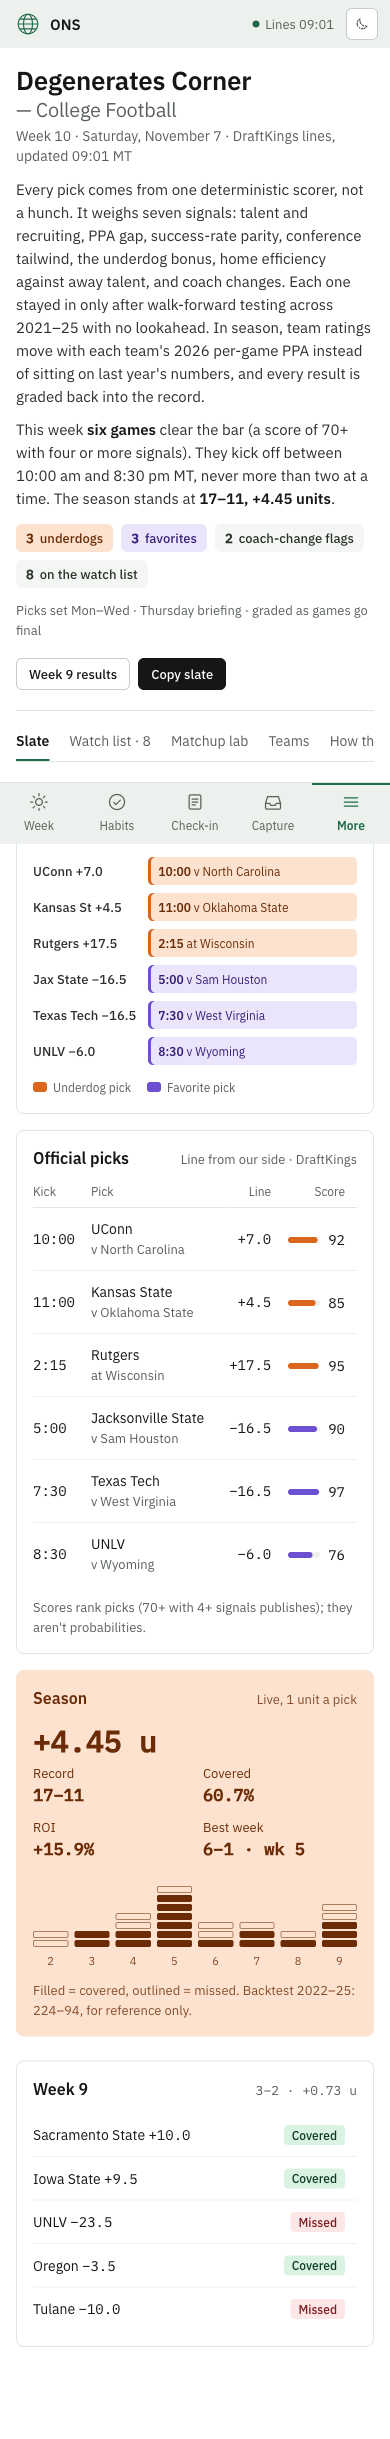
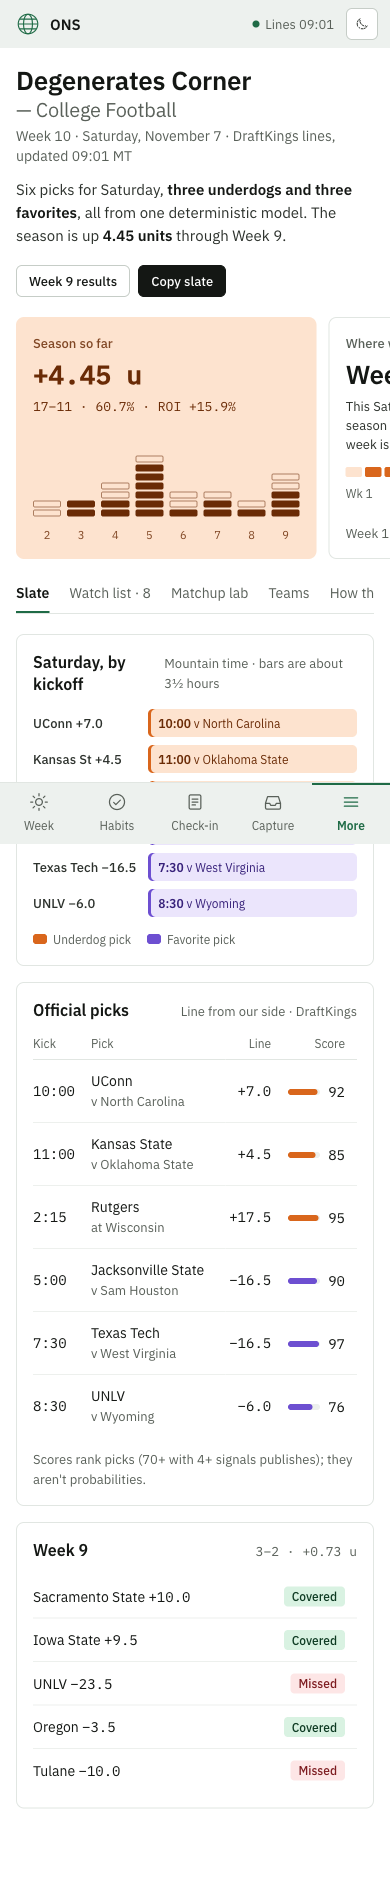
Degenerates Corner: summary tiles for season, calendar, weekly run and model
Replaces the long intro paragraphs with a one-line lede and four tiles:
season so far (units, record, per-week chart), where we are in the season,
this week's pipeline checklist, and the model. Season card folded into the
first tile; tiles swipe sideways on phones.

diff --git a/docs/design/directions/6-logbook-color/cfb.html b/docs/design/directions/6-logbook-color/cfb.html
@@ -55,22 +55,48 @@
   </nav>
 
   <main class="sheet">
-    <header class="intro">
+    <header class="intro compact">
       <div>
         <h1>Degenerates Corner <span class="h1-sub">— College Football</span></h1>
         <p class="span">Week 10 · Saturday, November 7 · DraftKings lines, updated 09:01 MT</p>
-        <p class="lede">Every pick comes from one deterministic scorer, not a hunch. It weighs seven signals: talent and recruiting, PPA gap, success-rate parity, conference tailwind, the underdog bonus, home efficiency against away talent, and coach changes. Each one stayed in only after walk-forward testing across 2021–25 with no lookahead. In season, team ratings move with each team's 2026 per-game PPA instead of sitting on last year's numbers, and every result is graded back into the record.</p>
-        <p class="lede">This week <b>six games</b> clear the bar (a score of 70+ with four or more signals). They kick off between 10:00 am and 8:30 pm MT, never more than two at a time. The season stands at <b>17–11, +4.45 units</b>.</p>
-        <ul class="facts" aria-label="This week at a glance">
-          <li class="dog"><span class="n">3</span> underdogs</li>
-          <li class="fav"><span class="n">3</span> favorites</li>
-          <li><span class="n">2</span> coach-change flags</li>
-          <li><span class="n">8</span> on the watch list</li>
-        </ul>
-        <p class="cadence">Picks set Mon–Wed · Thursday briefing · graded as games go final</p>
+        <p class="lede">Six picks for Saturday, <b>three underdogs and three favorites</b>, all from one deterministic model. The season is up <b>4.45 units</b> through Week 9.</p>
       </div>
       <div class="acts"><a class="btn" href="#">Week 9 results</a><a class="btn pri" href="#">Copy slate</a></div>
     </header>
+
+    <div class="tiles">
+      <section class="tile t t-edge" aria-labelledby="t-season">
+        <h2 id="t-season">Season so far</h2>
+        <div class="tbig n">+4.45 u</div>
+        <p class="n">17–11 · 60.7% · ROI +15.9%</p>
+        <div class="wk" role="img" aria-label="Covered and missed picks by week, weeks 2 to 9"><div><i class="l"></i><i class="l"></i></div><div><i class="w"></i><i class="w"></i></div><div><i class="w"></i><i class="w"></i><i class="l"></i><i class="l"></i></div><div><i class="w"></i><i class="w"></i><i class="w"></i><i class="w"></i><i class="w"></i><i class="w"></i><i class="l"></i></div><div><i class="w"></i><i class="l"></i><i class="l"></i></div><div><i class="w"></i><i class="w"></i><i class="l"></i></div><div><i class="w"></i><i class="l"></i></div><div><i class="w"></i><i class="w"></i><i class="w"></i><i class="l"></i><i class="l"></i></div></div>
+        <div class="wkx" aria-hidden="true"><span>2</span><span>3</span><span>4</span><span>5</span><span>6</span><span>7</span><span>8</span><span>9</span></div>
+      </section>
+
+      <section class="tile" aria-labelledby="t-cal">
+        <h2 id="t-cal">Where we are</h2>
+        <div class="tbig">Week 10</div>
+        <p>This Saturday, then three more regular-season weeks through Nov 28. Championship week is Dec 5.</p>
+        <div class="seasonbar" role="img" aria-label="Week 10 of 14"><i class="none" title="Week 1"></i><i class="done" title="Week 2"></i><i class="done" title="Week 3"></i><i class="done" title="Week 4"></i><i class="done" title="Week 5"></i><i class="done" title="Week 6"></i><i class="done" title="Week 7"></i><i class="done" title="Week 8"></i><i class="done" title="Week 9"></i><i class="now" title="Week 10"></i><i class="" title="Week 11"></i><i class="" title="Week 12"></i><i class="" title="Week 13"></i><i class="champ" title="Week 14"></i></div>
+        <div class="seasonx" aria-hidden="true"><span>Wk 1</span><span>Champs</span></div>
+        <p class="tnote">Week 1 had no picks · 8 weeks graded</p>
+      </section>
+
+      <section class="tile wide" aria-labelledby="t-pipe">
+        <h2 id="t-pipe">This week's run</h2>
+        <div class="tbig">3 of 6 done</div>
+        <ol class="steps"><li class="ok"><svg viewBox="0 0 16 16" aria-hidden="true"><circle cx="8" cy="8" r="7"/><path d="M4.8 8.3l2.2 2.2 4.2-4.6"/></svg><b>Week 9 graded</b><span class="n">3–2 · +0.73 u</span></li><li class="ok"><svg viewBox="0 0 16 16" aria-hidden="true"><circle cx="8" cy="8" r="7"/><path d="M4.8 8.3l2.2 2.2 4.2-4.6"/></svg><b>Lines pulled</b><span class="n">Tue 09:01</span></li><li class="ok"><svg viewBox="0 0 16 16" aria-hidden="true"><circle cx="8" cy="8" r="7"/><path d="M4.8 8.3l2.2 2.2 4.2-4.6"/></svg><b>Picks set</b><span class="n">6 official · 8 watch</span></li><li class="todo"><svg viewBox="0 0 16 16" aria-hidden="true"><circle cx="8" cy="8" r="6.25"/></svg><b>Thursday briefing</b><span class="n">Nov 5</span></li><li class="todo"><svg viewBox="0 0 16 16" aria-hidden="true"><circle cx="8" cy="8" r="6.25"/></svg><b>Games</b><span class="n">Sat 10:00–8:30</span></li><li class="todo"><svg viewBox="0 0 16 16" aria-hidden="true"><circle cx="8" cy="8" r="6.25"/></svg><b>Graded</b><span class="n">as games go final</span></li></ol>
+      </section>
+
+      <section class="tile" aria-labelledby="t-model">
+        <h2 id="t-model">The model</h2>
+        <div class="tbig">7 signals</div>
+        <p>One deterministic scorer. Each signal is walk-forward tested on 2021–25 with no lookahead; 3 were cut in the July audit.</p>
+        <p>In season, team ratings follow 2026 per-game PPA. A pick needs a score of 70+ and 4+ signals.</p>
+        <a class="tlink" href="#">How the model works</a>
+      </section>
+    </div>
+
     <nav class="tabs" aria-label="CFB"><a href="cfb.html" aria-current="page">Slate</a><a href="#">Watch list · 8</a><a href="#">Matchup lab</a><a href="#">Teams</a><a href="#">How the model works</a></nav>
 
     <div class="grid">
@@ -105,14 +131,6 @@
       </section>
 
       <div class="s4 stack">
-      <section class="card t t-edge" aria-labelledby="season-h">
-        <div class="ch"><h2 id="season-h">Season</h2><span class="aside">Live, 1 unit a pick</span></div>
-        <div class="big">+4.45 u</div>
-        <div class="kv"><div>Record<b>17–11</b></div><div>Covered<b>60.7%</b></div><div>ROI<b>+15.9%</b></div><div>Best week<b>6–1 · wk 5</b></div></div>
-        <div class="wk" role="img" aria-label="Wins and losses by week, weeks 2 to 9"><div><i class="l"></i><i class="l"></i></div><div><i class="w"></i><i class="w"></i></div><div><i class="w"></i><i class="w"></i><i class="l"></i><i class="l"></i></div><div><i class="w"></i><i class="w"></i><i class="w"></i><i class="w"></i><i class="w"></i><i class="w"></i><i class="l"></i></div><div><i class="w"></i><i class="l"></i><i class="l"></i></div><div><i class="w"></i><i class="w"></i><i class="l"></i></div><div><i class="w"></i><i class="l"></i></div><div><i class="w"></i><i class="w"></i><i class="w"></i><i class="l"></i><i class="l"></i></div></div>
-        <div class="wkx" aria-hidden="true"><span>2</span><span>3</span><span>4</span><span>5</span><span>6</span><span>7</span><span>8</span><span>9</span></div>
-        <p class="note">Filled = covered, outlined = missed. Backtest 2022–25: 224–94, for reference only.</p>
-      </section>
       <section class="card" aria-labelledby="w9-h">
         <div class="ch"><h2 id="w9-h">Week 9</h2><span class="aside n">3–2 · +0.73 u</span></div>
         <table><tbody>

diff --git a/docs/design/directions/6-logbook-color/style.css b/docs/design/directions/6-logbook-color/style.css
@@ -100,6 +100,38 @@ h1 { font: 600 22px/28px var(--sans); margin: 0; }
 .intro .lede b { color: var(--ink); font-weight: 600; }
 .intro .acts { display: flex; gap: 8px; flex: none; padding-top: 4px; }
 
+.intro.compact { border-bottom: 0; padding-bottom: 0; margin-bottom: 20px; }
+
+/* Summary tiles (CFB): season, calendar, this week's pipeline, the model */
+.tiles { display: grid; grid-template-columns: 1fr 1fr 1.25fr 1fr; gap: 16px; margin-bottom: 24px; }
+.tile { border: 1px solid var(--border); border-radius: 8px; padding: 16px; display: flex; flex-direction: column; gap: 6px; min-width: 0; background: var(--sheet); }
+.tile.t { border-color: transparent; background: var(--t); color: var(--t-ink); }
+.tile h2 { font: 500 13px/18px var(--sans); margin: 0; color: var(--muted); }
+.tile.t h2 { color: var(--t-ink); opacity: .85; }
+.tile .tbig { font: 600 26px/32px var(--sans); letter-spacing: -.01em; }
+.tile .tbig.n { font-family: var(--mono); letter-spacing: 0; }
+.tile p { margin: 0; font-size: 13px; line-height: 19px; color: var(--ink-2); }
+.tile.t p { color: var(--t-ink); }
+.tile .tnote { color: var(--muted); margin-top: auto; }
+.tile .wk { margin-top: auto; height: 60px; }
+.tlink { margin-top: auto; font-size: 13px; font-weight: 500; color: var(--hue); text-underline-offset: 3px; }
+.seasonbar { display: grid; grid-template-columns: repeat(14, 1fr); gap: 3px; margin-top: 8px; }
+.seasonbar i { height: 10px; border-radius: 2px; background: var(--rule); }
+.seasonbar i.done { background: var(--edge-mark); }
+.seasonbar i.none { background: var(--edge); }
+.seasonbar i.now { background: var(--sheet); outline: 2px solid var(--edge-mark); outline-offset: -2px; }
+.seasonbar i.champ { background: transparent; outline: 1px dashed var(--control); outline-offset: -1px; }
+.seasonx { display: flex; justify-content: space-between; font-size: 12px; color: var(--muted); }
+.steps { list-style: none; margin: 4px 0 0; padding: 0; display: grid; gap: 6px; }
+.steps li { display: grid; grid-template-columns: 16px auto 1fr; align-items: center; gap: 8px; font-size: 13px; line-height: 18px; }
+.steps li span { text-align: right; color: var(--muted); font-size: 12px; white-space: nowrap; }
+.steps svg { width: 16px; height: 16px; fill: none; stroke-width: 1.5; stroke-linecap: round; stroke-linejoin: round; }
+.steps li.ok svg circle { fill: var(--ok); stroke: var(--ok-ink); }
+.steps li.ok svg path { stroke: var(--ok-ink); }
+.steps li.ok b { font-weight: 500; }
+.steps li.todo svg circle { stroke: var(--control); stroke-dasharray: 2.5 2; }
+.steps li.todo b { font-weight: 400; color: var(--muted); }
+
 /* Next steps: up to four things to do today, each in its area's colour */
 .next { display: grid; grid-template-columns: repeat(4, minmax(0, 1fr)); gap: 12px; margin: 16px 0 0; padding: 0; list-style: none; }
 .next li { display: flex; flex-direction: column; gap: 2px; padding: 12px 14px; border-radius: 8px; background: var(--l); color: var(--l-ink); box-shadow: inset 3px 0 0 var(--l-mark); }
@@ -241,6 +273,9 @@ td .sub { display: block; font-size: 13px; color: var(--muted); }
   .intro h1 .h1-sub { display: block; font-size: 20px; line-height: 26px; }
   .intro .lede { font-size: 15px; line-height: 23px; }
   .next { grid-template-columns: minmax(0, 1fr); gap: 8px; }
+  /* Phone: tiles become one swipeable row so the slate stays near the top */
+  .tiles { display: flex; gap: 12px; overflow-x: auto; scroll-snap-type: x mandatory; margin: 0 -16px 20px; padding: 0 16px 4px; scroll-padding: 0 16px; scrollbar-width: none; }
+  .tile { flex: 0 0 84%; scroll-snap-align: start; }
   .next li { flex-direction: row; flex-wrap: wrap; align-items: baseline; gap: 2px 8px; padding: 10px 12px; }
   .grid { grid-template-columns: minmax(0, 1fr); gap: 16px; }
   .grid > * { grid-column: auto; }
@@ -270,5 +305,6 @@ td .sub { display: block; font-size: 13px; color: var(--muted); }
   .grid > [class*="s"] { grid-column: 1 / -1; }
   .intro { flex-direction: column; gap: 14px; }
   .next { grid-template-columns: repeat(2, minmax(0, 1fr)); }
+  .tiles { grid-template-columns: repeat(2, minmax(0, 1fr)); }
 }
 .wrapx { overflow-x: auto; max-width: 100%; }

diff --git a/docs/design/directions/6-logbook-color/README.md b/docs/design/directions/6-logbook-color/README.md
@@ -36,8 +36,13 @@
 - **A page intro, so the page doesn't open straight onto dates.**
   - Each page opens with a 30px title ("This week", "College football picks"), then a muted line giving the span it covers, then one coach-voice paragraph saying what matters.
   - Home adds four **next steps** in their area colours: check in, log 4 habits, get a CrossFit class in, finish book 8 by Nov 22.
-  - The slate is titled **Degenerates Corner — College Football** (the sidebar group and breadcrumb match, ready for NBA/NHL to join). Its summary explains the system from README/ROADMAP: one deterministic scorer, seven walk-forward-validated signals, live 2026 strength from per-game PPA, and the grading loop. Then it says what this week holds and when picks are set and graded.
-  - The slate adds a row of small counts: 3 underdogs, 3 favourites, 2 coach-change flags, 8 on the watch list.
+  - The slate is titled **Degenerates Corner — College Football** (the sidebar group and breadcrumb match, ready for NBA/NHL to join). The system details from README/ROADMAP now live in the tiles.
+  - The slate opens with a short title block (one sentence), then **four summary tiles**:
+    - **Season so far** (tangerine): +4.45 u, 17–11 · 60.7% · ROI +15.9%, and covered/missed for each week.
+    - **Where we are:** Week 10, a 14-segment season bar, and the Saturdays left.
+    - **This week's run:** the pipeline as a checklist (Week 9 graded, lines pulled, picks set, Thursday briefing, games, graded), "3 of 6 done".
+    - **The model:** 7 signals, walk-forward tested, 3 cut in the July audit, live PPA ratings, and the 70+ / 4+ bar.
+  - The old Season card moved into the first tile. On phones the tiles become a swipeable row so the slate stays near the top.
   - A rule separates the intro from the data.
 - **Phone fixes along the way:**
   - The kickoff strip turns into a list of games on phones, where it used to be an empty card.
@@ -55,3 +60,9 @@ IBM Plex Sans and Plex Mono, the medium density, the 228px sidebar, the 48px top
 - **Every colour in both themes needs checking whenever a token changes.** The ink-on-tint pairs here are all at least 7:1, and muted text is at least 4.5:1.
 
 Files: `home.html`, `cfb.html`, `style.css`, `theme.js`; screenshots `{home,cfb}-{light,dark}-{1440,390}.png`. Open a page with `?theme=dark` or `?theme=light` to force a theme.
+
+**Sample values in the tiles to confirm:**
+- "Three more regular-season weeks through Nov 28; championship week Dec 5" comes from the calendar, not the API.
+- The pipeline step times ("Tue 09:01", "Thursday briefing Nov 5") follow the cadence in the README; the API doesn't expose step status yet. A real version needs a small `/api/cfb/run-status` built from the daily-sync step logs.
+
+**Inspector note:** at 390px the inspector flags the second tile touching the right edge. That peek is deliberate, to show the row swipes. Everything else passes in both themes.
